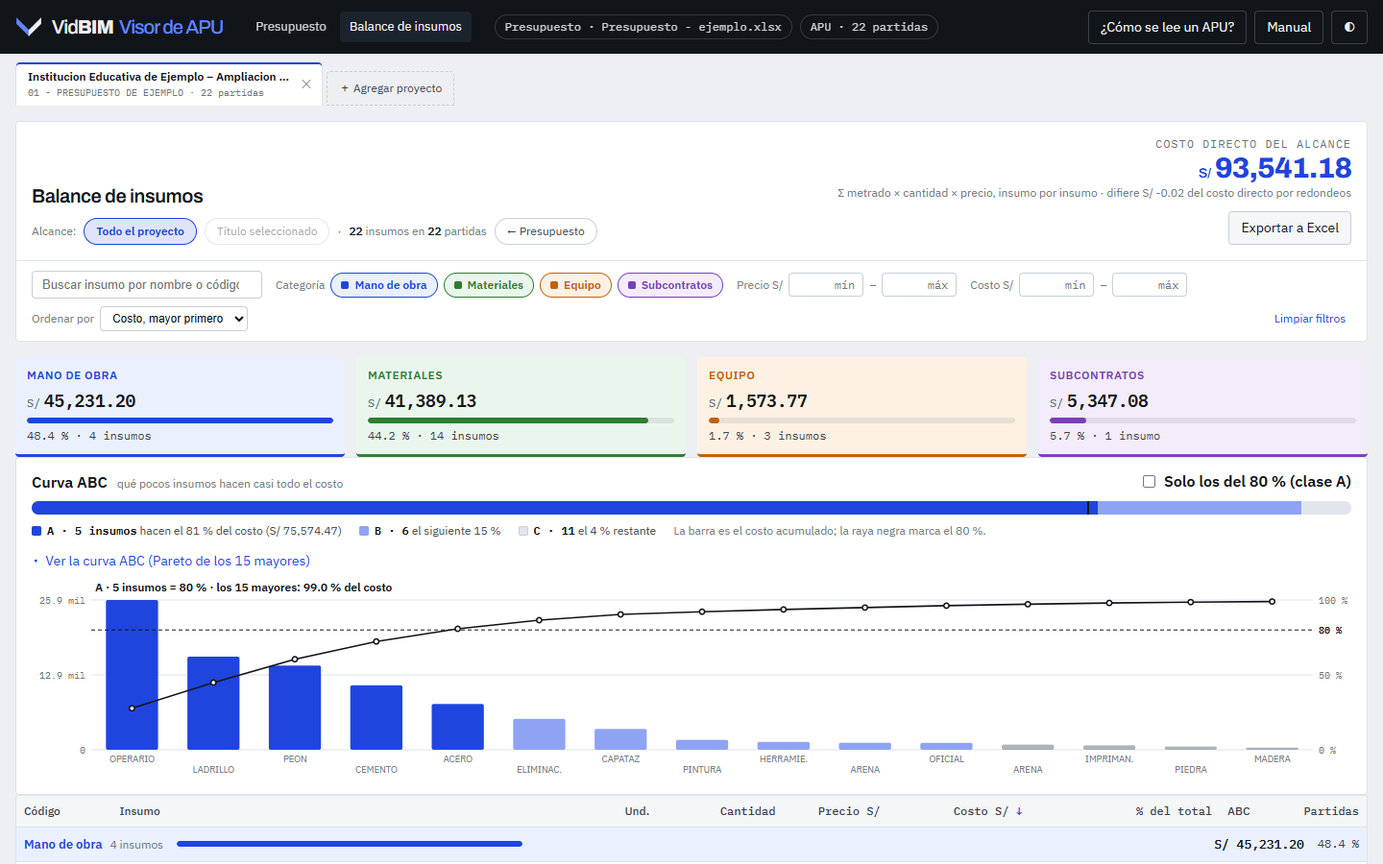
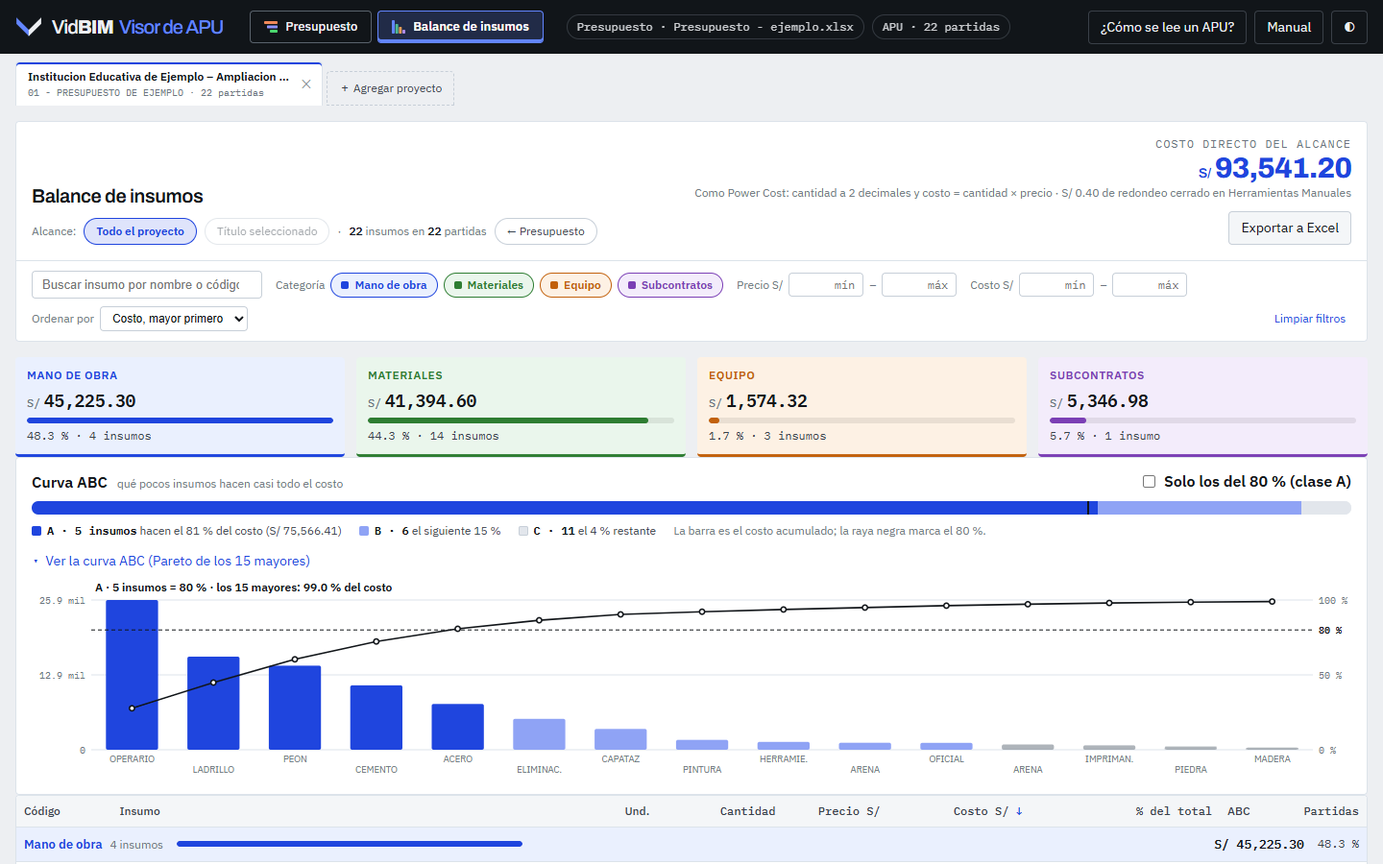
Pestañas de color y Excel del Balance como la lista de insumos de Costos
Las pestañas Presupuesto y Balance de insumos van como botones: la elegida
teñida de azul con raya de 3 px, cada una con un ícono de color (niveles del
presupuesto; MO, MAT, EQ y SC). Hasta 900 px bajan a una segunda fila de la
cabecera, así no desborda y vuelven al celular.

Exportar a Excel (ExcelJS 4.4.0 de cdnjs, cargado al exportar): hoja 1
«Lista de insumos» igual a la de Costos, siempre con todo el alcance (total =
costo directo; con un título, «Listado de Insumos» y la fila «Título»), con
el nombre largo en varias líneas, «Son :», pie P.1/n y la fecha, y la letra
Normal Aptos Narrow para que se corte en las mismas páginas. Hoja 2
«Análisis ABC» con lo filtrado, % acumulado y el filtro de Excel; la fila 3
dice los filtros («sin Mano de obra»). Sin conexión sale el Excel de antes
con un aviso. Manual al día.

diff --git a/index.html b/index.html
@@ -403,12 +403,23 @@ footer.pie{max-width:1720px;margin:0 auto;padding:8px 16px 32px;font-size:var(--
 #balance button.op{font:inherit;font-size:var(--t-aux)}
 #balance .limpiar{cursor:pointer}
 #balance .masf{display:none}
-.cab .vistas{display:flex;gap:4px;margin-left:8px}
-.cab .vistas a{color:var(--cabecera-texto);text-decoration:none;font-size:var(--t-tabla);padding:6px 10px;border-radius:var(--radio);opacity:.85;white-space:nowrap}
-.cab .vistas a:hover{background:var(--cabecera-hover);opacity:1}
-.cab .vistas a.activo{background:var(--cabecera-hover);opacity:1}
+/* Pestañas como botones (30-10-2026, VA1): la elegida, teñida de azul con raya de 3 px; cada una con un ícono de color de lo que muestra */
+.cab .vistas{display:flex;gap:6px;margin-left:12px}
+.cab .vistas a{display:inline-flex;align-items:center;gap:8px;height:34px;padding:0 14px;border:1px solid var(--cabecera-borde,#5A636D);border-radius:var(--radio);color:var(--cabecera-texto);text-decoration:none;font-size:var(--t-tabla);font-weight:500;white-space:nowrap}
+.cab .vistas a:hover{background:var(--cabecera-hover);border-color:var(--cabecera-borde-hover,#6C7681)}
+.cab .vistas a:focus-visible{outline:2px solid var(--cabecera-azul);outline-offset:2px}
+.cab .vistas a.activo{background:var(--cabecera-sel,#212B47);border-color:var(--cabecera-azul);color:#fff;font-weight:600;box-shadow:inset 0 -3px 0 var(--cabecera-azul)}
+.cab .vistas a.activo:hover{background:var(--cabecera-sel,#212B47)}
+.cab .vistas .ico{display:block;width:14px;height:14px;flex:none}
 @media (max-width:1250px){ .cab .archivos{display:none} }
-@media (max-width:700px){ .cab .vistas{display:none} #balance{padding:12px;gap:10px} #balance .filtros input[type=search]{min-width:0;flex:1 1 100%} }
+/* Hasta 900 px, las pestañas en una segunda fila de la cabecera, mitad y mitad (VA2): sin desborde y también en el celular */
+@media (max-width:900px){
+  .cab{flex-wrap:wrap;height:auto;row-gap:0}
+  .cab > .marca,.cab > .der{height:var(--cabecera-alto)}
+  .cab .vistas{order:9;flex:1 0 100%;margin:0;padding:0 0 8px;gap:6px}
+  .cab .vistas a{flex:1 1 0;justify-content:center;height:36px;padding:0 8px}
+}
+@media (max-width:700px){ #balance{padding:12px;gap:10px} #balance .filtros input[type=search]{min-width:0;flex:1 1 100%} }
 .pres .pie a{color:var(--azul);text-decoration:none}
 #balance .cabbal{display:grid;grid-template-columns:1fr auto;gap:16px;align-items:end;padding:14px 16px 16px}
 #balance .cabbal h1{font-family:var(--f-marca);font-weight:600;font-size:20px;letter-spacing:-.02em;margin:0 0 8px}
@@ -575,7 +586,10 @@ footer.pie{max-width:1720px;margin:0 auto;padding:8px 16px 32px;font-size:var(--
     <svg><use href="#vidbim-s"/></svg>
     <span class="wm"><span class="a">Vid</span><span class="b">BIM</span><span class="c">Visor de APU</span></span>
   </a>
-  <nav class="vistas" id="vistas" hidden aria-label="Vistas"><a href="#" data-vista="presupuesto" class="activo">Presupuesto</a><a href="#balance" data-vista="balance">Balance de insumos</a></nav>
+  <nav class="vistas" id="vistas" hidden aria-label="Vistas">
+    <a href="#" data-vista="presupuesto" class="activo"><svg class="ico" viewBox="0 0 14 14" aria-hidden="true"><rect x="0" y="1" width="14" height="3" rx="1" fill="#F0895A"/><rect x="3" y="5.5" width="11" height="3" rx="1" fill="#8C93FF"/><rect x="6" y="10" width="8" height="3" rx="1" fill="#4AD66D"/></svg>Presupuesto</a>
+    <a href="#balance" data-vista="balance"><svg class="ico" viewBox="0 0 14 14" aria-hidden="true"><rect x="0" y="0" width="3" height="14" rx="1" fill="#6285FF"/><rect x="3.67" y="4" width="3" height="10" rx="1" fill="#4FB791"/><rect x="7.33" y="7" width="3" height="7" rx="1" fill="#E39A55"/><rect x="11" y="10" width="3" height="4" rx="1" fill="#B08CE8"/></svg>Balance de insumos</a>
+  </nav>
   <div class="archivos" id="chipsArchivos"></div>
   <div class="der">
     <button class="btn" id="btnCambiar" hidden title="Agregar otro proyecto (sus dos Excel)"><span class="largo">Agregar proyecto</span><span class="corto" aria-hidden="true">＋</span></button>
@@ -1692,7 +1706,274 @@ function irAInsumoBalance(x) {
 let paretoTam = 0;
 window.addEventListener('resize', () => { clearTimeout(paretoTam); paretoTam = setTimeout(() => { if (!$('#balance')?.hidden) pintarPareto(); }, 150); });
 
-function exportarBalance() {
+// ─ Exportar el Balance (30-10-2026): hoja 1 «Lista de insumos» como la de vidBIM Costos (ExportarLista: siempre todo el
+// alcance, sin filtros, para que su total sea el costo directo) y hoja 2 «Análisis ABC» (lo filtrado, con el filtro de Excel).
+// El formato lo escribe ExcelJS, que se carga solo al exportar; si no carga, sale el Excel sin formato de antes y un aviso.
+const EXCELJS = 'https://cdnjs.cloudflare.com/ajax/libs/exceljs/4.4.0/exceljs.min.js';
+let cargaExcelJS = null;
+function cargarExcelJS() {
+  if (window.ExcelJS) return Promise.resolve();
+  return cargaExcelJS ??= new Promise((ok, mal) => {
+    const s = document.createElement('script');
+    s.src = EXCELJS; s.onload = () => ok();
+    s.onerror = () => { cargaExcelJS = null; s.remove(); mal(new Error('sin conexión')); };
+    document.head.append(s);
+  });
+}
+async function exportarBalance() {
+  const btn = $('#balExportar'), texto = btn.textContent;
+  $('#balAvisoExcel')?.remove();
+  btn.disabled = true; btn.textContent = 'Preparando…';
+  try {
+    await cargarExcelJS();
+    const { datos, nombre } = await libroBalance();
+    descargar(datos, nombre);
+  } catch (e) {
+    console.error(e);
+    exportarBalanceSinFormato();
+    btn.closest('.btns').insertAdjacentHTML('afterend', `<div id="balAvisoExcel" style="color:var(--ambar);font-size:var(--t-aux);margin-top:6px">No se pudo cargar el formato; se exportó sin formato.</div>`);
+  } finally { btn.disabled = false; btn.textContent = texto; }
+}
+function descargar(datos, nombre) {
+  const url = URL.createObjectURL(new Blob([datos], { type: 'application/vnd.openxmlformats-officedocument.spreadsheetml.sheet' }));
+  const a = document.createElement('a'); a.href = url; a.download = nombre; document.body.append(a); a.click(); a.remove();
+  setTimeout(() => URL.revokeObjectURL(url), 60000);
+}
+
+// Formatos y anchos de Power Cost, como en Costos (Nucleo\PowerCost\ExportadorPowerCost.cs). ExcelJS escribe el ancho tal cual
+// (ClosedXML le suma 0.71 y Costos lo resta), así que van los de Power Cost.
+const FMT_MONTO = '_ * #,##0.00_ ;_ * \\-#,##0.00_ ;_ * "-"??_ ;_ @_ ';
+const FMT_PRECIO = '_ * #,##0.00_ ;_ * \\-#,##0.00_ ;_ * " "??_ ;_ @_ ';
+const FMT_CANT3 = '_ * #,##0.000_ ;_ * \\-#,##0.000_ ;_ * "-"???_ ;_ @_ ';
+const ANCHOS_LISTA = [10.0, 2.78, 28.66, 12.22, 6.55, 11.44, 11.44, 13.11, 11.55];
+// Los grupos de la lista de Costos (Power Cost tiene tres; Costos agrega SERVICIOS). Lo que no es MO, EQ ni SC va en MATERIALES.
+const GRUPOS_LISTA = [['mo', 'MANO DE OBRA'], ['mat', 'MATERIALES'], ['eq', 'EQUIPO'], ['sc', 'SERVICIOS']];
+const grupoLista = c => c === 'mo' || c === 'eq' || c === 'sc' ? c : 'mat';
+// Orden de Costos: en mano de obra primero capataz, topógrafo, operario, oficial y peón; luego por nombre (ordinal).
+const CATEGORIAS_OBRA = ['CAPATAZ', 'TOPOGRAFO', 'OPERARIO', 'OFICIAL', 'PEON'];
+const rangoObra = x => { if (grupoLista(x.categoria) !== 'mo') return 0; const i = CATEGORIAS_OBRA.indexOf(sinTilde(x.descripcion.trim())); return i < 0 ? CATEGORIAS_OBRA.length : i; };
+const ordenLista = (a, b) => rangoObra(a) - rangoObra(b) || (a.descripcion < b.descripcion ? -1 : a.descripcion > b.descripcion ? 1 : 0);
+
+// Ancho de una columna en px a 96 ppp (dígito de 7 px) y del texto en Arial (anchos de Helvetica por cada 1000 del cuerpo, de « » a «~»;
+// las tildes no cambian el ancho): las mismas cuentas que Etiqueta() de Costos para partir el nombre largo del proyecto.
+const pxColumna = w => Math.trunc((256 * w + 18) / 256 * 7);
+const ANCHOS_ARIAL = [278, 278, 355, 556, 556, 889, 667, 191, 333, 333, 389, 584, 278, 333, 278, 278, 556, 556, 556, 556, 556, 556, 556, 556, 556, 556,
+  278, 278, 584, 584, 584, 556, 1015, 667, 667, 722, 722, 667, 611, 778, 722, 278, 500, 667, 556, 833, 722, 778, 667, 778, 722, 667,
+  611, 722, 667, 944, 667, 667, 611, 278, 278, 278, 469, 556, 333, 556, 556, 500, 556, 556, 278, 556, 556, 222, 222, 500, 222, 833,
+  556, 556, 556, 556, 333, 500, 278, 556, 500, 722, 500, 500, 500, 334, 260, 334, 584];
+const ANCHOS_ARIAL_NEGRITA = [278, 333, 474, 556, 556, 889, 722, 238, 333, 333, 389, 584, 278, 333, 278, 278, 556, 556, 556, 556, 556, 556, 556, 556, 556, 556,
+  333, 333, 584, 584, 584, 611, 975, 722, 722, 722, 722, 667, 611, 778, 722, 278, 556, 722, 611, 833, 722, 778, 667, 778, 722, 667,
+  611, 722, 667, 944, 667, 667, 611, 333, 278, 333, 584, 556, 333, 556, 611, 556, 611, 556, 333, 611, 611, 278, 278, 556, 278, 889,
+  611, 611, 611, 611, 389, 556, 333, 611, 556, 778, 556, 556, 500, 389, 280, 389, 584];
+function anchoArial(texto, tam, negrita) {
+  const t = negrita ? ANCHOS_ARIAL_NEGRITA : ANCHOS_ARIAL;
+  let s = 0;
+  for (const ch of texto.normalize('NFD').replace(/[̀-ͯ]/g, '')) { const c = ch.codePointAt(0); s += c >= 32 && c <= 126 ? t[c - 32] : 556; }
+  return s * tam / 1000;
+}
+// Líneas del texto cortado por palabras, como «Ajustar texto» de Excel (una palabra más larga que la línea se parte).
+function lineasArial(texto, tam, negrita, cabe) {
+  const espacio = anchoArial(' ', tam, negrita);
+  let x = 0, n = 1;
+  for (const p of texto.split(' ').filter(Boolean)) {
+    const w = anchoArial(p, tam, negrita);
+    if (x > 0 && x + espacio + w > cabe) { n++; x = w; } else x += (x > 0 ? espacio : 0) + w;
+    while (x > cabe) { n++; x -= cabe; }
+  }
+  return n;
+}
+
+// «Son :» del pie: NumeroEnLetras.Soles de Costos.
+const LETRAS_U = ['', 'UNO', 'DOS', 'TRES', 'CUATRO', 'CINCO', 'SEIS', 'SIETE', 'OCHO', 'NUEVE', 'DIEZ', 'ONCE', 'DOCE', 'TRECE', 'CATORCE', 'QUINCE',
+  'DIECISEIS', 'DIECISIETE', 'DIECIOCHO', 'DIECINUEVE', 'VEINTE', 'VEINTIUNO', 'VEINTIDOS', 'VEINTITRES', 'VEINTICUATRO', 'VEINTICINCO', 'VEINTISEIS',
+  'VEINTISIETE', 'VEINTIOCHO', 'VEINTINUEVE'];
+const LETRAS_D = ['', '', '', 'TREINTA', 'CUARENTA', 'CINCUENTA', 'SESENTA', 'SETENTA', 'OCHENTA', 'NOVENTA'];
+const LETRAS_C = ['', 'CIENTO', 'DOSCIENTOS', 'TRESCIENTOS', 'CUATROCIENTOS', 'QUINIENTOS', 'SEISCIENTOS', 'SETECIENTOS', 'OCHOCIENTOS', 'NOVECIENTOS'];
+const sinUnoFinal = s => s.endsWith('UNO') ? s.slice(0, -1) : s;   // «VEINTIUNO MIL» → «VEINTIUN MIL»
+function menor1000(n) {
+  if (n === 100) return 'CIEN';
+  const s = LETRAS_C[Math.floor(n / 100)], r = n % 100;
+  if (!r) return s;
+  const t = r < 30 ? LETRAS_U[r] : LETRAS_D[Math.floor(r / 10)] + (r % 10 ? ' Y ' + LETRAS_U[r % 10] : '');
+  return s ? s + ' ' + t : t;
+}
+function enteroEnLetras(n) {
+  if (n >= 1e6) { const m = Math.floor(n / 1e6), r = n % 1e6, s = m === 1 ? 'UN MILLON' : sinUnoFinal(enteroEnLetras(m).replace('VEINTIUNO', 'VEINTIUN')) + ' MILLONES'; return r ? s + ' ' + enteroEnLetras(r) : s; }
+  if (n >= 1000) { const m = Math.floor(n / 1000), r = n % 1000, s = m === 1 ? 'MIL' : sinUnoFinal(menor1000(m)) + ' MIL'; return r ? s + ' ' + menor1000(r) : s; }
+  return menor1000(n);
+}
+function solesEnLetras(x, moneda) {
+  x = Lector.r2(Math.abs(x));
+  const e = Math.floor(x), c = Math.round((x - e) * 100);
+  return `${e ? enteroEnLetras(e) : 'CERO'} CON ${String(c).padStart(2, '0')}/100 ${moneda}`;
+}
+
+// Letras y rayas de la lista de Power Cost: rótulos en Times New Roman negrita cursiva, datos en Arial Narrow 8.
+const letraTNR = tam => ({ name: 'Times New Roman', size: tam, bold: true, italic: true });
+const letraAN = (tam = 8, bold = false) => ({ name: 'Arial Narrow', size: tam, bold });
+const letraArial = (tam = 8, bold = false) => ({ name: 'Arial', size: tam, bold });
+function xlCelda(ws, r, c, valor, letra = letraAN(), horizontal, fmt) {
+  const x = ws.getCell(r, c);
+  if (valor != null) x.value = valor;
+  const vertical = x.alignment?.vertical || 'middle';   // la fila de un nombre largo ya va arriba
+  x.font = letra; x.alignment = horizontal ? { vertical, horizontal } : { vertical };
+  if (fmt) x.numFmt = fmt;
+  return x;
+}
+function xlRaya(ws, r, nCol, lado, estilo) {
+  for (let c = 1; c <= nCol; c++) { const x = ws.getCell(r, c); x.border = { ...(x.border || {}), [lado]: { style: estilo } }; }
+}
+const xlAlto = (ws, r, h) => { ws.getRow(r).height = h; };
+function hoyDdMmAaaa() { const h = new Date(); return `${String(h.getDate()).padStart(2, '0')}/${String(h.getMonth() + 1).padStart(2, '0')}/${h.getFullYear()}`; }
+function xlPagina(ws, filasFijas, vertical) {
+  Object.assign(ws.pageSetup, { paperSize: 9, orientation: vertical ? 'portrait' : 'landscape', printTitlesRow: `1:${filasFijas}`,
+    margins: { left: 0.3937007874, right: vertical ? 0 : 0.3937007874, top: 0.5511811024, bottom: 0.7086614173, header: 0, footer: 0.4330708661 } });
+  if (vertical) Object.assign(ws.pageSetup, { scale: 95, fitToPage: false }); else Object.assign(ws.pageSetup, { fitToPage: true, fitToWidth: 1, fitToHeight: 0 });
+  ws.headerFooter.oddFooter = `&L&"Arial,Cursiva"&6P.&P/&N&R&"Arial,Cursiva"&6Exportado el ${hoyDdMmAaaa()}`;
+  ws.views = [{ state: 'frozen', ySplit: filasFijas, showGridLines: false }];
+}
+// Una fila de la cabecera, como Etiqueta() de Costos: el rótulo en A y el valor en C. Si no entra en una línea hasta la columna
+// «hasta», se juntan esas celdas con «Ajustar texto» y la fila crece, sin pasar del borde de la hoja.
+function xlEtiqueta(ws, r, rotulo, valor, tam, negrita, alto, hasta, nCol) {
+  valor = String(valor || '');
+  xlCelda(ws, r, 1, rotulo, letraTNR(8));
+  xlCelda(ws, r, 3, valor, letraArial(tam, negrita));
+  xlAlto(ws, r, alto);
+  let px = 0; for (let c = 3; c <= hasta; c++) px += pxColumna(ANCHOS_LISTA[c - 1]);
+  const lineas = lineasArial(valor, tam, negrita, (px - 4) * 0.75);
+  if (lineas > 1) {
+    for (let c = 1; c <= nCol; c++) { const x = ws.getCell(r, c); x.alignment = { ...(x.alignment || {}), vertical: 'top' }; }
+    ws.mergeCells(r, 3, r, hasta);
+    ws.getCell(r, 3).alignment = { vertical: 'top', wrapText: true };
+    xlAlto(ws, r, Math.max(alto, Math.round(lineas * (tam >= 10 ? 13.2 : 10.8) * 100) / 100));
+  }
+}
+
+async function libroBalance() {
+  const d = datosBalance(), t = balAlc ? D.filas[porItemFila[balAlc]] : null;
+  const wb = new ExcelJS.Workbook();
+  hojaLista(wb.addWorksheet('Lista de insumos'), d, t);
+  hojaAbc(wb.addWorksheet('Análisis ABC'), t);
+  return { datos: conLetraNormal(await wb.xlsx.writeBuffer()), nombre: `Lista de insumos - ${t ? t.item : 'proyecto'}.xlsx` };
+}
+// ExcelJS deja Calibri en el estilo Normal; Power Cost y Costos usan Aptos Narrow 11. Excel imprime en la medida de esa letra:
+// con ella las páginas se cortan en las mismas filas que la lista de Costos (medido: 13 páginas y 59 filas en la primera, no 12 y 63).
+// Se cambia en xl/styles.xml con el CFB de SheetJS; si algo falla, sale igual, con Calibri.
+function conLetraNormal(datos) {
+  try {
+    const CFB = XLSX.CFB, zip = CFB.read(new Uint8Array(datos), { type: 'array' }), e = CFB.find(zip, '/xl/styles.xml');
+    const s = new TextDecoder().decode(e.content).replace(/(<fonts[^>]*>\s*<font>)(.*?)(<\/font>)/s,
+      (_, a, f, b) => a + f.replace('<name val="Calibri"/>', '<name val="Aptos Narrow"/>').replace('<scheme val="minor"/>', '') + b);
+    e.content = new TextEncoder().encode(s); e.size = e.content.length;
+    return new Uint8Array(CFB.write(zip, { fileType: 'zip', type: 'array', compression: true }));
+  } catch (x) { console.error(x); return datos; }
+}
+
+// Hoja 1: la «Lista de insumos» de Costos con todo el alcance. Con un título como alcance se titula «Listado de Insumos» y lleva la
+// fila «Título», como «Sub Presupuesto» en el APU de Power Cost.
+function hojaLista(ws, d, t) {
+  const e = D.encabezado, nCol = 8, fijas = t ? 10 : 9;
+  ws.columns = ANCHOS_LISTA.map(width => ({ width }));
+  ws.properties.defaultRowHeight = 10.2;
+  xlPagina(ws, fijas, true);
+  xlRaya(ws, 1, nCol, 'bottom', 'hair'); xlAlto(ws, 1, 10.8);
+  xlCelda(ws, 2, 1, t ? 'Listado de Insumos' : 'Listado Total de Insumos', letraTNR(18), 'centerContinuous');
+  for (let c = 2; c <= nCol; c++) xlCelda(ws, 2, c, null, letraTNR(18), 'centerContinuous');
+  xlAlto(ws, 2, 31.95);
+  let r = 3;
+  xlEtiqueta(ws, r++, 'Proyecto', e.Proyecto, 8, false, 10.8, nCol, nCol);
+  if (t) xlEtiqueta(ws, r++, 'Título', `${t.item} ${t.descripcion}`, 10, true, 13.2, nCol, nCol);
+  xlEtiqueta(ws, r++, 'Cliente', e.Cliente, 8, false, 10.8, nCol, nCol);
+  xlEtiqueta(ws, r, 'Ubicación', e['Ubicación'], 8, false, 13.2, 5, nCol);   // hasta antes de «Costo a :»
+  xlCelda(ws, r, 6, 'Costo a :', letraTNR(8), 'right');
+  xlCelda(ws, r++, 8, e['Costo a'] || '', letraArial(10, true), 'right');
+  xlRaya(ws, r, nCol, 'bottom', 'medium'); xlAlto(ws, r++, 5.25);
+  xlRaya(ws, r, nCol, 'top', 'medium'); xlRaya(ws, r, nCol, 'bottom', 'thin'); xlAlto(ws, r++, 3);
+  xlRaya(ws, r, nCol, 'top', 'thin'); xlRaya(ws, r, nCol, 'bottom', 'medium'); xlAlto(ws, r, 16.5);
+  [[1, 'IU  Código'], [3, 'Descripción'], [5, 'Unidad', 'center'], [6, 'Cantidad', 'right'], [7, 'Precio', 'right'], [8, 'Parcial', 'right']]
+    .forEach(([c, v, h]) => xlCelda(ws, r, c, v, letraTNR(9), h));
+  xlAlto(ws, ++r, 5.25);
+  for (const [g, nombre] of GRUPOS_LISTA) {
+    const xs = d.lista.filter(x => grupoLista(x.categoria) === g).sort(ordenLista);
+    if (!xs.length) continue;
+    xlCelda(ws, ++r, 2, nombre, { ...letraAN(8, true), underline: true }); xlAlto(ws, r, 10.2);
+    for (const x of xs) {
+      xlAlto(ws, ++r, 10.2);
+      xlCelda(ws, r, 1, '  ' + x.codigo);
+      xlCelda(ws, r, 3, x.descripcion);
+      xlCelda(ws, r, 5, x.unidad, letraAN(), 'center');
+      if (!x.porcentaje && x.cantidad != null) {
+        const q = x.cantidad;
+        // Menos de 0.01: con 3 decimales como Power Cost; con más si los tiene.
+        xlCelda(ws, r, 6, q, letraAN(), null, q !== 0 && Math.abs(q) < 0.01 ? (q === Math.round(q * 1000) / 1000 ? FMT_CANT3 : '#,##0.000###') : FMT_MONTO);
+      }
+      xlCelda(ws, r, 7, x.porcentaje ? null : x.precio, letraAN(), null, FMT_PRECIO);
+      xlCelda(ws, r, 8, x.costo, letraAN(), null, FMT_MONTO);
+    }
+    ws.getCell(r, 8).border = { bottom: { style: 'hair' } };
+    xlCelda(ws, ++r, 8, Lector.r2(xs.reduce((s, x) => s + x.costo, 0)), letraAN(8, true), null, FMT_MONTO); xlAlto(ws, r, 10.2);
+  }
+  // Pie: raya de cierre, «Total :» y «Son :»
+  xlRaya(ws, ++r, nCol, 'bottom', 'thin'); xlAlto(ws, r, 5.25); xlAlto(ws, ++r, 5.25);
+  xlCelda(ws, ++r, 6, 'Total :', letraTNR(8), 'right');
+  xlCelda(ws, r, 8, d.total, letraAN(9, true), null, FMT_MONTO); xlAlto(ws, r, 13.2);
+  xlCelda(ws, ++r, 1, 'Son :', { ...letraArial(8, true), italic: true }, 'right');
+  xlCelda(ws, r, 2, solesEnLetras(d.total, 'NUEVOS SOLES'), { ...letraArial(8, true), italic: true }); xlAlto(ws, r, 10.2);
+}
+
+// Los filtros puestos en el Balance, para la fila 3 de la hoja 2.
+function filtrosBalanceTexto() {
+  const b = balEstado, f = [], n = v => f2(v);
+  // Las categorías apagadas: «sin Mano de obra», «sin Mano de obra ni Equipo», «sin Mano de obra, Equipo ni Subcontratos»
+  const sin = CATS.filter(([c]) => !b.cats.has(c)).map(([, nm]) => nm);
+  if (sin.length) f.push('sin ' + (sin.length > 1 ? sin.slice(0, -1).join(', ') + ' ni ' + sin.at(-1) : sin[0]));
+  if (b.q.trim()) f.push(`Buscar «${b.q.trim()}»`);
+  if (b.pmin != null || b.pmax != null) f.push('Precio S/ ' + (b.pmin != null && b.pmax != null ? `${n(b.pmin)} a ${n(b.pmax)}` : b.pmin != null ? `desde ${n(b.pmin)}` : `hasta ${n(b.pmax)}`));
+  if (b.cmin != null || b.cmax != null) f.push('Costo S/ ' + (b.cmin != null && b.cmax != null ? `${n(b.cmin)} a ${n(b.cmax)}` : b.cmin != null ? `desde ${n(b.cmin)}` : `hasta ${n(b.cmax)}`));
+  if (b.soloA) f.push('Solo A');
+  return f.length ? 'Filtros: ' + f.join('; ') : 'Sin filtros';
+}
+
+// Hoja 2: lo filtrado en el Balance, en una tabla plana de mayor a menor costo con el filtro de Excel, para ordenar y filtrar.
+function hojaAbc(ws, t) {
+  const xs = filtradosBalance().sort((a, b) => b.costo - a.costo);
+  const tot = Lector.r2(xs.reduce((s, x) => s + x.costo, 0)), nCol = 11, cab = 5;
+  const nombreCat = c => (CATS.find(([k]) => k === c) || [c, 'Subpartidas'])[1];
+  ws.columns = [12, 8, 42, 6, 12, 11, 13, 12, 13, 7, 10].map(width => ({ width }));
+  xlPagina(ws, cab, false);
+  xlCelda(ws, 1, 1, 'Análisis ABC de insumos', letraTNR(14)); xlAlto(ws, 1, 21);
+  xlCelda(ws, 2, 1, 'Proyecto', letraTNR(8)); xlCelda(ws, 2, 2, D.encabezado.Proyecto || '', letraArial(8)); xlAlto(ws, 2, 12);
+  xlCelda(ws, 3, 1, 'Alcance', letraTNR(8));
+  xlCelda(ws, 3, 2, `${t ? `Título ${t.item} ${t.descripcion}` : 'Todo el proyecto'} · ${filtrosBalanceTexto()} · ${xs.length.toLocaleString('en-US')} insumos · S/ ${f2(tot)}`, letraAN(8, true));
+  xlAlto(ws, 3, 12);
+  xlRaya(ws, cab, nCol, 'top', 'thin'); xlRaya(ws, cab, nCol, 'bottom', 'medium'); xlAlto(ws, cab, 16.5);
+  ['Categoría', 'Código', 'Insumo', 'Und.', 'Cantidad', 'Precio S/', 'Costo S/', '% del total', '% acumulado', 'ABC', 'Partidas']
+    .forEach((v, i) => { const x = xlCelda(ws, cab, i + 1, v, letraTNR(9), i === 3 || i === 9 ? 'center' : i >= 4 ? 'right' : null);
+      if (i >= 4 && i !== 9) x.alignment = { ...x.alignment, indent: 2 }; });   // que el botón del filtro no tape el rótulo
+  let r = cab, acum = 0;
+  for (const x of xs) {
+    acum += x.costo; r++;
+    xlCelda(ws, r, 1, nombreCat(x.categoria)); xlCelda(ws, r, 2, x.codigo); xlCelda(ws, r, 3, x.descripcion);
+    xlCelda(ws, r, 4, x.unidad, letraAN(), 'center');
+    xlCelda(ws, r, 5, x.porcentaje ? null : x.cantidad, letraAN(), null, FMT_MONTO);
+    xlCelda(ws, r, 6, x.porcentaje ? null : x.precio, letraAN(), null, FMT_PRECIO);
+    xlCelda(ws, r, 7, x.costo, letraAN(), null, FMT_MONTO);
+    xlCelda(ws, r, 8, tot ? x.costo / tot : 0, letraAN(), null, '0.00 %');
+    xlCelda(ws, r, 9, tot ? Math.min(acum / tot, 1) : 0, letraAN(), null, '0.00 %');
+    xlCelda(ws, r, 10, x.abc, letraAN(8, true), 'center');
+    xlCelda(ws, r, 11, x.nPartidas, letraAN(), null, '#,##0');
+    xlAlto(ws, r, 12);
+  }
+  if (xs.length) ws.autoFilter = { from: { row: cab, column: 1 }, to: { row: r, column: nCol } };
+  r++;
+  xlRaya(ws, r, nCol, 'top', 'thin');
+  xlCelda(ws, r, 1, 'Total', letraTNR(9)); xlCelda(ws, r, 3, `${xs.length.toLocaleString('en-US')} insumos`);
+  xlCelda(ws, r, 7, tot, letraAN(8, true), null, FMT_MONTO); xlCelda(ws, r, 8, tot ? 1 : 0, letraAN(), null, '0.00 %');
+  xlAlto(ws, r, 13.2);
+}
+
+// El Excel de antes, sin formato (SheetJS): solo si ExcelJS no carga.
+function exportarBalanceSinFormato() {
   const d = datosBalance(), fs = ordenarBalance(filtradosBalance());
   const t = balAlc ? D.filas[porItemFila[balAlc]] : null;
   const filas = [[`Balance de insumos · ${t ? t.item + ' ' + t.descripcion : 'Todo el proyecto'}`], [D.encabezado.Proyecto || ''], [`Costo del alcance`, d.total], [],

diff --git a/manual.html b/manual.html
@@ -183,14 +183,19 @@ footer{max-width:880px;margin:0 auto;padding:0 16px 32px;font-size:var(--t-aux);
 
   <section class="paso" id="balance">
     <header><span class="n">7</span><h2>Balance de insumos</h2></header>
-    <p>En la cabecera, <b>Balance de insumos</b> (en el celular, el enlace al pie del presupuesto) muestra todos los insumos del proyecto con su <b>cantidad total</b> y su <b>costo</b>, como la lista de insumos de Power Cost: el redondeo de cada partida se reparte en partes iguales entre sus insumos, la cantidad va a 2 decimales y el costo es cantidad × precio. Los céntimos que faltan para el costo directo se cierran en herramientas manuales. Desde el resumen de un título, <b>Balance de insumos de este título</b> muestra solo los de ese título.</p>
+    <p>En la cabecera, la pestaña <b>Balance de insumos</b> (la elegida va en azul; en una pantalla angosta o en el celular, las dos pestañas bajan a una segunda fila) muestra todos los insumos del proyecto con su <b>cantidad total</b> y su <b>costo</b>, como la lista de insumos de Power Cost: el redondeo de cada partida se reparte en partes iguales entre sus insumos, la cantidad va a 2 decimales y el costo es cantidad × precio. Los céntimos que faltan para el costo directo se cierran en herramientas manuales. Desde el resumen de un título, <b>Balance de insumos de este título</b> muestra solo los de ese título.</p>
     <ul>
       <li><b>Alcance:</b> todo el proyecto o el título seleccionado.</li>
       <li><b>Filtros:</b> buscar por nombre o código, categorías (clic en cada una), rango de precio y de costo, y orden. <b>Limpiar filtros</b> vuelve a todo.</li>
       <li><b>Curva ABC:</b> los insumos que hacen el 80 % del costo son la clase A; «Solo los del 80 %» deja solo esos. Son los que conviene cotizar primero.</li>
       <li><b>Ver la curva ABC (Pareto de los 15 mayores):</b> una barra por cada uno de los 15 insumos de mayor costo (azul la clase A, azul claro la B, gris la C) y la línea del costo acumulado, con la raya del 80 %. Al pasar el mouse se ve el insumo, su costo y su %; un clic en la barra la marca y lleva a ese insumo en la tabla. Se pliega y recuerda cómo la dejó.</li>
       <li>La tabla va agrupada por categoría y muestra 50 por grupo; «Mostrar los otros…» abre el resto. Clic en un encabezado ordena; clic en un insumo, dónde se usa.</li>
-      <li><b>Exportar a Excel</b> baja lo filtrado, con los subtotales por categoría y la clase ABC.</li>
+      <li><b>Exportar a Excel</b> baja un libro con dos hojas:
+        <ul>
+          <li><b>Lista de insumos</b>, como la lista de insumos de Power Cost: mano de obra, materiales, equipo y servicios con sus subtotales, el total y el «Son :», lista para imprimir en A4. Va siempre con todo el alcance, sin filtros, así que su total es el costo directo del alcance.</li>
+          <li><b>Análisis ABC</b>, con lo filtrado: categoría, % del total, % acumulado, clase ABC y n.º de partidas, de mayor a menor costo y con el filtro de Excel. Arriba dice qué filtros tenía puestos.</li>
+        </ul>
+        Sin conexión a internet sale un Excel sin formato.</li>
       <li>El total puede diferir unos céntimos del costo directo por los redondeos de cada partida; el visor lo indica.</li>
     </ul>
     <figure><img src="manual/10-balance.png" alt="Balance de insumos: tarjetas por categoría, curva ABC y tabla" loading="lazy"></figure>

diff --git a/tokens.css b/tokens.css
@@ -89,7 +89,8 @@
 }
 
 /* La cabecera es siempre de tinta, en los dos temas (como la app de escritorio). */
-:root{ --cabecera-fondo:#111519; --cabecera-texto:#EDEFF2; --cabecera-azul:#6285FF; --cabecera-linea:#3A4048; --cabecera-hover:#1B232C; }
+:root{ --cabecera-fondo:#111519; --cabecera-texto:#EDEFF2; --cabecera-azul:#6285FF; --cabecera-linea:#3A4048; --cabecera-hover:#1B232C;
+  --cabecera-borde:#5A636D; --cabecera-borde-hover:#6C7681; --cabecera-sel:#212B47; }
 
 /* Base mínima */
 html{ background:var(--papel); color:var(--tinta); font-family:var(--f-texto); font-size:var(--t-cuerpo); line-height:1.5; -webkit-font-smoothing:antialiased; }
